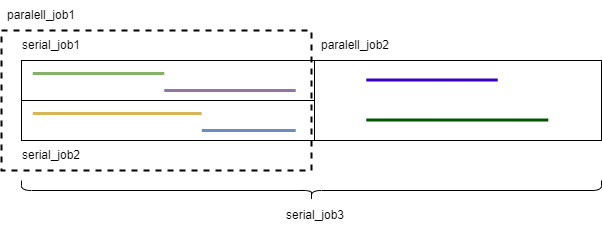
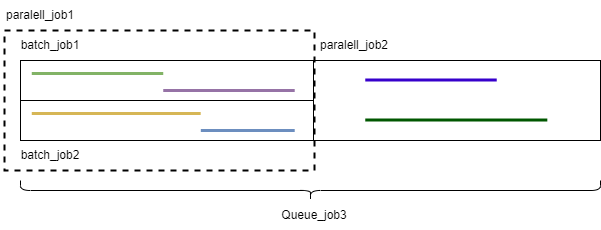
ジョブマネジメントの説明拡張

diff --git a/source/job_management/usage.md b/source/job_management/usage.md
@@ -178,7 +178,7 @@ METHOD quit : BOOL
 VAR
   fbTask1         : FB_ControllerType_1;
   output  AT %Q*  : BOOL; // 点滅させたいBOOL変数
-  main_job        : FB_Executor;
+   executor        : FB_Executor;
   start           : BOOL; // HMIなどのスタートスイッチ
   _state          : UDINT;
 END_VAR
@@ -195,18 +195,18 @@ CASE _state OF
     fbTask1.own_output REF= output; // IOの受け渡し
     fbTask1.own_parameter := T#10S;   // 点滅時間の設定
     fbTask1.future_name := 'Blinker'; // Future名を設定
-    main_job.future := fbTask1; // ExecutorにFutureをセット
-    main_job.init(); // 初期化
+     executor.future := fbTask1; // ExecutorにFutureをセット
+     executor.init(); // 初期化
     _state := 2;
   2: // 実行
 
-    IF main_job.execute() THEN // 実行と終了監視
+    IF  executor.execute() THEN // 実行と終了監視
       _state := 0;
     END_IF
 
     // Start条件。wait_for_processかabortからのリトライの何れかで再開
-    IF start AND main_job.ready THEN
-      main_job.start();
+    IF start AND  executor.ready THEN
+       executor.start();
       start := FALSE;
     END_IF
 
@@ -240,7 +240,7 @@ VAR
   outputs  AT %Q*  : ARRAY [1..4] OF BOOL; // 順番に点滅させたいBOOL変数
   fbJobContainer : FB_BatchJobContainer;
   ads_reporter : bajp_jobmgmt.FB_ADSLOG_reporter; // 備え付けのイベントレポート
-  main_job   : FB_Executor;
+   executor   : FB_Executor;
   start      : BOOL; // HMIなどのスタートスイッチ
   _state     : UDINT;
   i :UINT;  
@@ -261,23 +261,24 @@ CASE _state OF
       fbJobContainer.add_future(fbTasks[i]); // 逐次実行ジョブを追加
     END_FOR
 
-    main_job.future := fbJobContainer; // ExecutorにFutureをセット
-    main_job.job_event_reporter := ads_reporter; // ADSLOGSTR出力のイベントハンドラをセット
-    main_job.init(); // 初期化
+     executor.future := fbJobContainer; // ExecutorにFutureをセット
+     executor.job_event_reporter := ads_reporter; // ADSLOGSTR出力のイベントハンドラをセット
+     executor.init(); // 初期化
     _state := 2;
   2: // 実行
 
-    IF main_job.execute() THEN // 実行と終了監視
+    IF  executor.execute() THEN // 実行と終了監視
       _state := 3;
     END_IF
 
     // Start条件。wait_for_processかabortからのリトライの何れかで再開
-    IF start AND main_job.ready THEN
-      main_job.start();
+    IF start AND  executor.ready THEN
+       executor.start();
       start := FALSE;
     END_IF
   3:
-    IF main_job.reset() THEN
+    // `reset()`にて、executorオブジェクトにぶら下がっている全てのジョブを削除
+    IF  executor.reset() THEN
       _state := 0;
     END_IF
 
@@ -285,11 +286,23 @@ END_CASE
 
 ```
 
-実装の違いは、JOBの組み立て方だけが異なります。まず配列で定義した出力変数と、個々のFutureオブジェクトのプロパティをセットし、`FB_BatchJobContainer`の`add_future`メソッドにてFutureオブジェクトを追加しています。また、main_jobとなるFB_Executorには、組み立てた`FB_BatchJobContainer`インスタンスをセットしています。
+ジョブコンテナでは、複数のJOBを`add_future`で登録し、そのコンテナオブジェクトを1つのジョブとして扱うことができます。この例では、配列で定義した出力変数とFutureオブジェクトをインスタンス化します。これらを`FB_BatchJobContainer`の`add_future`メソッドにて順に登録しています。このジョブを、executorオブジェクトのfutureプロパティでセットして実行すると、登録した子ジョブを逐次実行することができます。上記実装例では、`outputs[1]`～`outputs[4]`の間で、10秒間ごとに順次点滅する出力が移動します。
 
-おまけで、job_event_reporterにフレームワーク付属のADSLOGSTRを使ったジョブの状態遷移イベントをメッセージウィンドウに出力する機能を付けています。
+また、{ref}`section_event_handler`節で詳しく説明しているとおり、`job_event_reporter`プロパティには、本フレームワーク付属のADSLOGSTRを使ったジョブの状態遷移イベントをメッセージウィンドウに出力するイベントハンドラを登録していますので、XAEのメッセージウィンドウに、PLCのシステム時刻（100ns精度）でのジョブの名称やIDとその開始、終了イベントが記録されます。
 
-これを実行すると、`outputs[1]`～`outputs[4]`に10秒間順番に点滅を実行します。
+
+```{admonition} QueueJobの場合
+
+上記で示す実装例は静的ジョブコンテナでした。`_state=1`で構築したジョブを`_state=2`で実行したあと、`_state=3`で`reset()`を行うことでいったん全て消滅させた上で、再度`_state=0`へ戻りジョブを組み立て直しています。
+
+`FB_QueueJobContainer`および、`FB_ParallelQueueJobContainer`を用いる場合は、終了したら自動的にキューから消滅しますので`reset()`を行う必要はありません。`add_future()`を行うとすぐさまジョブを実行し、全てのジョブが完了したら自動的にコンテナ上はジョブが無くなった状態となり、終了します。
+
+ただし、動的ジョブコンテナの場合でも、全てのジョブが実行完了になると実行状態の完了シグナルである`execute()`のTRUEを返します。これにより、そのドライブオブジェクトである`FB_Executor`ではfinish状態まで進んでしまいますので、もう一度最初から`execute()`しなおす必要があります。
+
+ジョブコンテナの中身が空になっても実行状態を維持するには、ジョブコンテナオブジェクトのオプションを使って`continuous_mode := TRUE` を指定してください。これにより空になっても実行状態を維持できます。
+
+このモードでは特に終了待ちを行う必要はありませんので、`num_of_future`の状況を監視して実行中のジョブが無いか確認の上、自発的にシーケンスを終了させてください。
+```
 
 ## 処理中断とリセット
 
@@ -311,6 +324,7 @@ END_CASE
 このように、処理単位をFutureファンクションブロック化することで、インスタンスごとに安全な処理中断・再開処理が可能になります。
 ```
 
+(section_event_handler)=
 ## イベントハンドラの適用
 
 `FB_Executor`には、`job_event_reporter`というプロパティがあり、`InterfaceJobEventReporter`型で実装した状態遷移毎に実行されるイベントハンドラを登録することができます。
@@ -322,35 +336,81 @@ END_CASE
 ここでは、本フレームワークに内包している、ADSLOGSTRに出力する実装例をご紹介します。開発環境のメッセージウィンドウに文字列でスクロール表示します。
 
 ```{code-block} iecst
+FUNCTION_BLOCK FB_ADSLOG_reporter IMPLEMENTS InterfaceJobEventReporter
+
 METHOD report : BOOL
-VAR_INPUT
-  old_state	: E_FutureExecutionState;
-  new_state	: E_FutureExecutionState;
-  record_time	: Tc2_Utilities.T_FILETIME64;
-  executor	: REFERENCE TO FB_Executor;
-END_VAR
-VAR_INST
-  fb_timezone_info : FB_GetTimeZoneInformation := (bExecute := TRUE);
-END_VAR
+  VAR_INPUT
+    old_state	: E_FutureExecutionState;
+    new_state	: E_FutureExecutionState;
+    record_time	: Tc2_Utilities.T_FILETIME64;
+    executor	: REFERENCE TO FB_Executor;
+  END_VAR
+  VAR_INST
+    fb_timezone_info : FB_GetTimeZoneInformation := (bExecute := TRUE);
+  END_VAR
+  VAR
+    last_state : STRING;
+    current_state : STRING;
+  END_VAR
+
+  last_state := TO_STRING(old_state);
+  current_state := TO_STRING(new_state);
+  fb_timezone_info();
+  text := FILETIME64_TO_ISO8601(fileTime := record_time, nBias := DINT_TO_INT(fb_timezone_info.tzInfo.bias), bUTC := TRUE,nPrecision := 6);
+  text := CONCAT(text, ':');
+  text := CONCAT(text, last_state);
+  text := CONCAT(text, '->');
+  text := CONCAT(text, TO_STRING(current_state));
+  text := CONCAT(text, ':');
+  text := CONCAT(text, executor.future.future_name);
+  text := CONCAT(text, ':');
+  text := CONCAT(text, executor.id);
+
+  ADSLOGSTR(msgCtrlMask := ADSLOG_MSGTYPE_LOG, msgFmtStr := text, strArg := '');
+
+  report := TRUE;
+```
+
+このファンクションブロックをインスタンス化し、`FB_Executor`の`job_event_reporter`プロパティにセットします。
+
+```{code-block} iecst
+PROGRAM MAIN
 VAR
-  last_state : STRING;
-  current_state : STRING;
+  :
+  ads_reporter : bajp_jobmgmt.FB_ADSLOG_reporter; // 備え付けのイベントレポート
+   executor   : FB_Executor;
+  :
 END_VAR
 
-last_state := TO_STRING(old_state);
-current_state := TO_STRING(new_state);
-fb_timezone_info();
-text := FILETIME64_TO_ISO8601(fileTime := record_time, nBias := DINT_TO_INT(fb_timezone_info.tzInfo.bias), bUTC := TRUE,nPrecision := 6);
-text := CONCAT(text, ':');
-text := CONCAT(text, last_state);
-text := CONCAT(text, '->');
-text := CONCAT(text, TO_STRING(current_state));
-text := CONCAT(text, ':');
-text := CONCAT(text, executor.future.future_name);
-text := CONCAT(text, ':');
-text := CONCAT(text, executor.id);
+:
+   executor.job_event_reporter := ads_reporter; // ADSLOGSTR出力のイベントハンドラをセット
 
-ADSLOGSTR(msgCtrlMask := ADSLOG_MSGTYPE_LOG, msgFmtStr := text, strArg := '');
+```
 
-report := TRUE;
+このジョブの実行中、リアルタイムにADSLOGSTRでメッセージが出力されます。このように、今回はADSLOGSTRでしたが、このメソッドの実装方法次第ではデータベースやMQTTなどのデータウェアハウスに格納すれば、簡単に、特定の`future_name`の、特定の`job_id`の処理開始、終了の範囲データを抽出することが可能です。
+
+電流、モータトルク、圧力、温度など様々な時系列連続データがありますが、これらの値とは別に、制御モードを示すデータを統一的なフォーマットで収集することは、製造業のリソース4M（Man, Machine, Material, Method）という定性データを示す[カテゴリカルデータ](https://python-data-analysis.readthedocs.io/en/latest/pandas/categoricaldata.html)の生成根拠となりえます。データ収集時点で苦労されているのはこの点だと思いますので、この課題を解決できる本フレームワークの導入は、データ活用を飛躍的に向上させることにつながるでしょう。
+
+```{code} csv
+Message 2024/07/08 22:32:47 757 ms | 'PlcTask' (350): 2024-07-08T22:32:47.757000+09:00:finish->wait_for_process:BATCH JOB:
+Message 2024/07/08 22:32:47 707 ms | 'PlcTask' (350): 2024-07-08T22:32:47.707000+09:00:quit->finish:Blinker 4:/4
+Message 2024/07/08 22:32:47 707 ms | 'PlcTask' (350): 2024-07-08T22:32:47.707000+09:00:quit->finish:BATCH JOB:
+Message 2024/07/08 22:32:47 697 ms | 'PlcTask' (350): 2024-07-08T22:32:47.697000+09:00:process->quit:Blinker 4:/4
+Message 2024/07/08 22:32:47 697 ms | 'PlcTask' (350): 2024-07-08T22:32:47.697000+09:00:process->quit:BATCH JOB:
+Message 2024/07/08 22:32:37 687 ms | 'PlcTask' (350): 2024-07-08T22:32:37.687000+09:00:wait_for_process->process:Blinker 4:/4
+Message 2024/07/08 22:32:37 677 ms | 'PlcTask' (350): 2024-07-08T22:32:37.677000+09:00:quit->finish:Blinker 3:/3
+Message 2024/07/08 22:32:37 667 ms | 'PlcTask' (350): 2024-07-08T22:32:37.667000+09:00:process->quit:Blinker 3:/3
+Message 2024/07/08 22:32:27 657 ms | 'PlcTask' (350): 2024-07-08T22:32:27.657000+09:00:wait_for_process->process:Blinker 3:/3
+Message 2024/07/08 22:32:27 647 ms | 'PlcTask' (350): 2024-07-08T22:32:27.647000+09:00:quit->finish:Blinker 2:/2
+Message 2024/07/08 22:32:27 637 ms | 'PlcTask' (350): 2024-07-08T22:32:27.637000+09:00:process->quit:Blinker 2:/2
+Message 2024/07/08 22:32:17 627 ms | 'PlcTask' (350): 2024-07-08T22:32:17.627000+09:00:wait_for_process->process:Blinker 2:/2
+Message 2024/07/08 22:32:17 617 ms | 'PlcTask' (350): 2024-07-08T22:32:17.617000+09:00:quit->finish:Blinker 1:/1
+Message 2024/07/08 22:32:17 607 ms | 'PlcTask' (350): 2024-07-08T22:32:17.607000+09:00:process->quit:Blinker 1:/1
+Message 2024/07/08 22:32:07 597 ms | 'PlcTask' (350): 2024-07-08T22:32:07.597000+09:00:wait_for_process->process:Blinker 1:/1
+Message 2024/07/08 22:32:07 587 ms | 'PlcTask' (350): 2024-07-08T22:32:07.587000+09:00:idle->wait_for_process:Blinker 4:/4
+Message 2024/07/08 22:32:07 587 ms | 'PlcTask' (350): 2024-07-08T22:32:07.587000+09:00:idle->wait_for_process:Blinker 3:/3
+Message 2024/07/08 22:32:07 587 ms | 'PlcTask' (350): 2024-07-08T22:32:07.587000+09:00:idle->wait_for_process:Blinker 2:/2
+Message 2024/07/08 22:32:07 587 ms | 'PlcTask' (350): 2024-07-08T22:32:07.587000+09:00:idle->wait_for_process:Blinker 1:/1
+Message 2024/07/08 22:32:07 577 ms | 'PlcTask' (350): 2024-07-08T22:32:07.577000+09:00:wait_for_process->process:BATCH JOB:
+Message 2024/07/08 22:31:42 217 ms | 'PlcTask' (350): 2024-07-08T13:31:42.217000+00:00:idle->wait_for_process:BATCH JOB:
 ```
